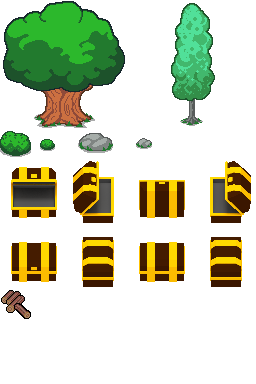
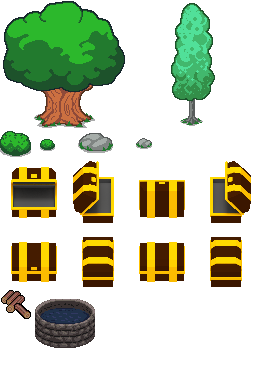
interaction sceau + server action fillBucket

Changed region(s): [[0.125, 0.7812, 0.375, 0.9062]]

diff --git a/static/sprites/player.js b/static/sprites/player.js
@@ -15,6 +15,7 @@ export class Player extends Phaser.GameObjects.Sprite {
             this.tasks = getImpostorTasks();
             this.tint = 0xFF0000; // Rouge pour différencier l'imposteur
         }
+        this.fillBucket = false;
         scene.physics.add.existing(this);
         
         this.body.setCollideWorldBounds(true)
@@ -213,7 +214,7 @@ export class Player extends Phaser.GameObjects.Sprite {
         }
         this.last_dir = this.direction
 
-        if (this.canInteract && this.canInteract.type != "chest" && this.canInteract.type != "chestOpened") {
+        if (this.canInteract && this.canInteract.type != "chest" && this.canInteract.type != "chestOpened" && this.canInteract.type != "waterWell") {
             const cur = this.canInteract
             const midX = cur.x //+ 50 //(this.x + berryBush.x) / 3;
             const midY = cur.y + 50 * (this.y+10 > cur.y ? -1 : 1) //this.y //this.y + (this.y + berryBush.y) / 2;
@@ -221,8 +222,7 @@ export class Player extends Phaser.GameObjects.Sprite {
             this.interactionIndicator.z = 1;
             this.interactionIndicator.visible = true;
             //console.log(this.interactionIndicator)
-        } else if (this.canInteract && this.canInteract.type == "chest") {
-            console.log("interaction avec chest")
+        } else if (this.canInteract && (this.canInteract.type == "chest" || this.canInteract.type == "waterWell")) {
             const cur = this.canInteract
             const midX = cur.x //+ 50 //(this.x + berryBush.x) / 3;
             const midY = cur.y + 50 * (this.y+10 > cur.y ? -1 : 1) //this.y //this.y + (this.y + berryBush.y) / 2;
@@ -260,6 +260,12 @@ export class Player extends Phaser.GameObjects.Sprite {
             if (this.canInteract.type == "chestOpened") {
                 console.log("Le coffre a déjà été ouvert !")
             }
+            if (this.canInteract.type == "waterWell" && this.inventory.includes("sceau")){
+                if (this.actions.openChest) {
+                    this.actions.fillBucket(this.canInteract.id);
+                    this.tasks.fillBucket(this);
+                }
+            }
         }
 
         const item = this.tasks.dropItem(this);
@@ -288,14 +294,18 @@ export class Player extends Phaser.GameObjects.Sprite {
     
         // On efface juste le contenu interne de chaque slot (mais on garde la div)
         slots.forEach((slot, index) => {
+            slot.innerHTML = ''; // On efface le contenu du slot
+            slot.style.backgroundColor = '';
 
             if (this.inventory[index]) {
-                slot.innerHTML = ''; // On efface le contenu du slot
-
                 const img = document.createElement('img');
                 img.src = `/static/tilemaps/${this.inventory[index]}.png`;
                 img.alt = this.inventory[index];
                 img.classList.add('inventory-item');
+
+                if (this.inventory[index] == "sceau" && this.fillBucket == true) {
+                    slot.style.backgroundColor = 'rgb(64, 192, 218)';
+                }
             
                 slot.appendChild(img); 
             } else {

diff --git a/static/tasks.js b/static/tasks.js
@@ -9,7 +9,9 @@ export function getPlayerTasks() {
         pickUpBerry,
         pickUpWood,
         dropItem,
-        openChest
+        openChest,
+        fillBucket
+
     };
 }
 
@@ -19,6 +21,7 @@ export function getImpostorTasks() {
         pickUpWood,
         dropItem,
         openChest,
+        fillBucket,
         throwItem,
         knife
     };
@@ -115,27 +118,6 @@ export function dropItem(player) {
                             capacity: 4
                         };
                         item = new OakPlanks(player.scene, dropTileX * 32 + 16, dropTileY * 32 + 16, dropTileY + "/" + dropTileX, layer.getTileAt(dropTileX, dropTileY));
-                    } else if (itemToDrop == "sceau") {
-                        const tile = layer.putTileAt(493, dropTileX, dropTileY);
-                        tile.properties = {
-                            name: "sceau",
-                            capacity: 1
-                        };
-                        item = new Sceau(player.scene, dropTileX * 32 + 16, dropTileY * 32 + 16, dropTileY + "/" + dropTileX, layer.getTileAt(dropTileX, dropTileY));
-                    } else if (itemToDrop == "hache") {
-                        const tile = layer.putTileAt(493, dropTileX, dropTileY);
-                        tile.properties = {
-                            name: "hache",
-                            capacity: 1
-                        };
-                        item = new Hache(player.scene, dropTileX * 32 + 16, dropTileY * 32 + 16, dropTileY + "/" + dropTileX, layer.getTileAt(dropTileX, dropTileY));
-                    } else if (itemToDrop == "couteau") {
-                        const tile = layer.putTileAt(493, dropTileX, dropTileY);
-                        tile.properties = {
-                            name: "couteau",
-                            capacity: 1
-                        };
-                        item = new Couteau(player.scene, dropTileX * 32 + 16, dropTileY * 32 + 16, dropTileY + "/" + dropTileX, layer.getTileAt(dropTileX, dropTileY));
                     }
 
                     if (item) {
@@ -184,6 +166,17 @@ export function openChest(player, chest) {
     layer.putTileAt(chestOpenedTopRight, x, y - 1);
     layer.putTileAt(chestOpenedBottomLeft, x - 1, y);
     layer.putTileAt(chestOpenedBottomRight, x, y);
+}
+
+export function fillBucket(player) {
+    console.log("Vous avez rempli le sceau");
+    player.fillBucket = true;
+
+    const bucketIndex = player.inventory.indexOf("sceau");
+    if (bucketIndex !== -1) {
+        const slots = document.querySelectorAll('.inventory-slot');
+        slots[bucketIndex].style.backgroundColor = 'rgb(64, 192, 218)';
+    }
 }
 
 ////ACTIONS DE L'IMPOSTEUR///

diff --git a/static/game.js b/static/game.js
@@ -2,6 +2,7 @@ import { BerryBush } from "./sprites/berry_bush.js"
 import { OakPlanks } from "./sprites/oak_planks.js"
 import { Chest } from "./sprites/chest.js"
 import { Player } from './sprites/player.js'
+import { WaterWell } from "./sprites/waterWell.js"
 
 var config = {
     type: Phaser.AUTO,
@@ -54,7 +55,6 @@ var game = new Phaser.Game(config)
     // On init le joueur avant tout
     this.player = new Player(this, 500,500, true, "impostor")
     player = this.player;
-
     
     this.map = this.add.tilemap('map')
     const map = this.map
@@ -90,6 +90,12 @@ var game = new Phaser.Game(config)
     let topLeftChests = chests.filter(tile => {
       return tile.properties.numero == 1;
     });
+    let waterWells = this.mapElements.filterTiles(tile => {
+      return tile.properties && tile.properties.name == "waterWell";
+    });
+    let topLeftWaterWells = waterWells.filter(tile => {
+      return tile.properties.numero == 1;
+    });
 
 ////////////OBJETS COLLISIONS////////////
     this.elements = [] //Ici tous les éléments avec lesquels on peut intéragir
@@ -122,6 +128,17 @@ var game = new Phaser.Game(config)
       });
       this.add.existing(chest)
     }
+
+    for(let waterWell_i in topLeftWaterWells) {
+      let waterWell = new WaterWell(this, waterWells[waterWell_i].pixelX + 32, waterWells[waterWell_i].pixelY + 32 , waterWells[waterWell_i].y + "/" + waterWells[waterWell_i].x, waterWells[waterWell_i])
+      this.elements.push(waterWell)
+        
+      this.physics.add.collider(this.player, waterWell, function() {
+        console.log('Collision avec waterWell !');
+      });
+      this.add.existing(waterWell)
+    }
+
 
 
     this.cameras.main.startFollow(this.player, true);
@@ -274,8 +291,8 @@ var game = new Phaser.Game(config)
     this.player.onAction('openChest', (chest_id) => {
       const items = [
         { type: 'sceau', id: '1' },
-        { type: 'couteau', id: '2' },
-        { type: 'hache', id: '3' }
+        { type: 'sceau', id: '2' },
+        { type: 'sceau', id: '3' }
       ];
       const randomIndex = Math.floor(Math.random() * items.length);
       const item = items[randomIndex];
@@ -294,6 +311,14 @@ var game = new Phaser.Game(config)
       });
       console.log("onAction : openChest");
       console.log(`Le joueur a trouvé ${item.type}`);
+    })
+
+    this.player.onAction('fillBucket', (waterWell_i) => {
+      socket.emit('action', {
+        type : 'fillBucket',
+        player : socket.id
+      })
+      console.log("onAction : fillBucket");
     })
 
 

diff --git a/static/sprites/waterWell.js b/static/sprites/waterWell.js
@@ -1,0 +1,17 @@
+export class WaterWell extends Phaser.GameObjects.Sprite {
+    constructor (scene, x, y, id, tile) {
+        super(scene, x, y)
+        this.id = id;
+        this.type = "waterWell"
+        this.tile = tile;
+
+        this.setPosition(x, y);
+        scene.physics.world.enable(this);
+        this.body.setImmovable(true);
+    }
+
+    preUpdate (time, delta)
+    {
+        super.preUpdate(time, delta);
+    }
+}
